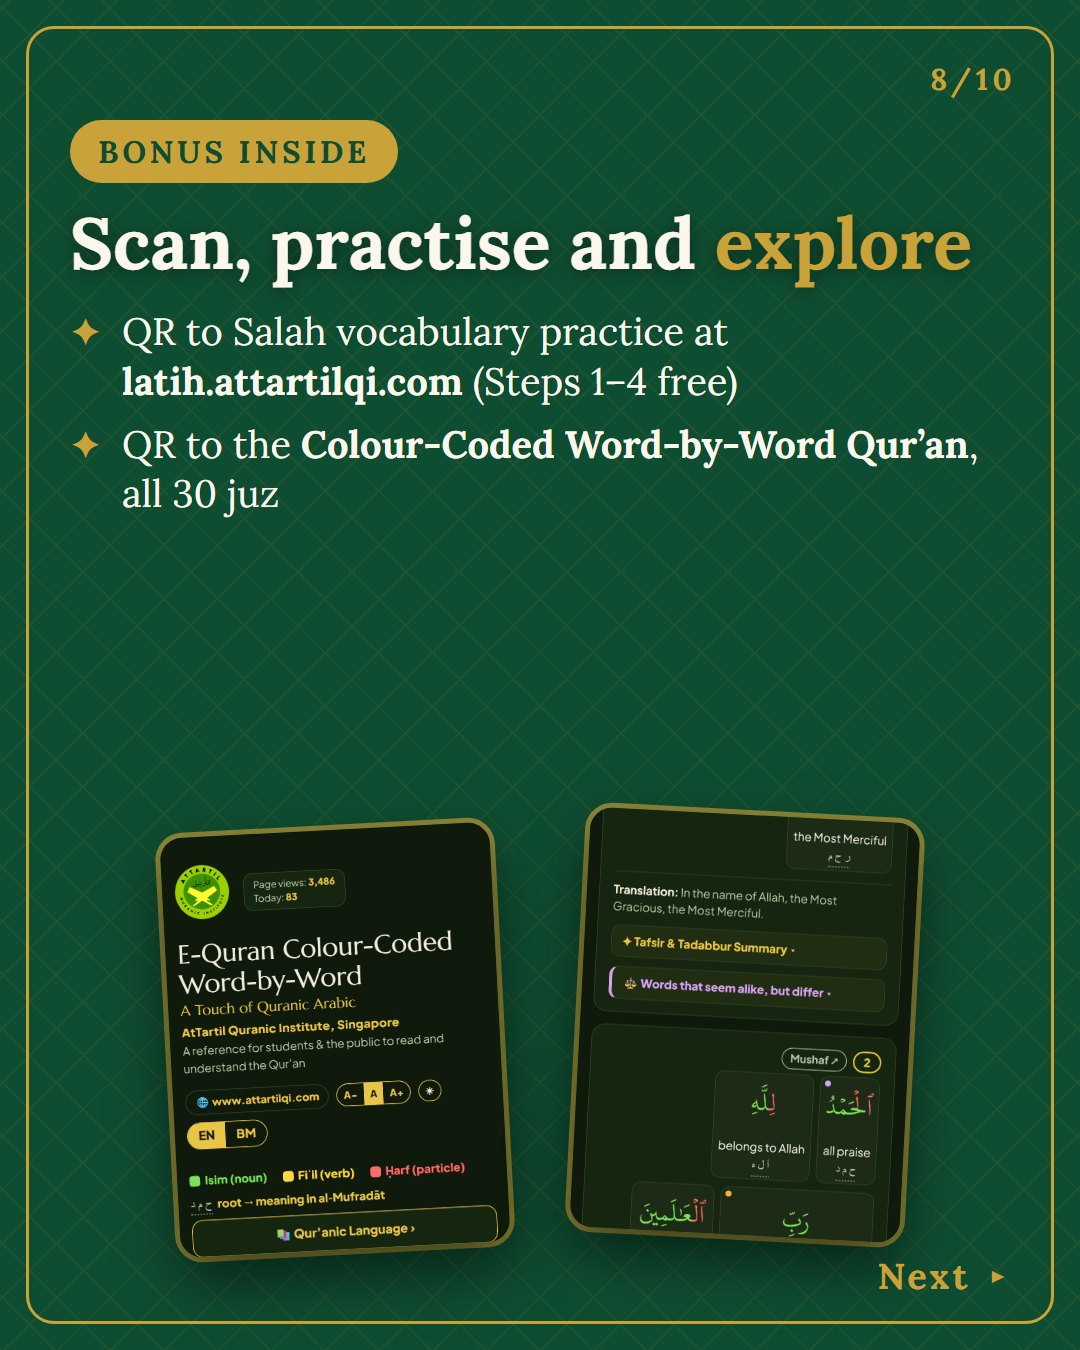
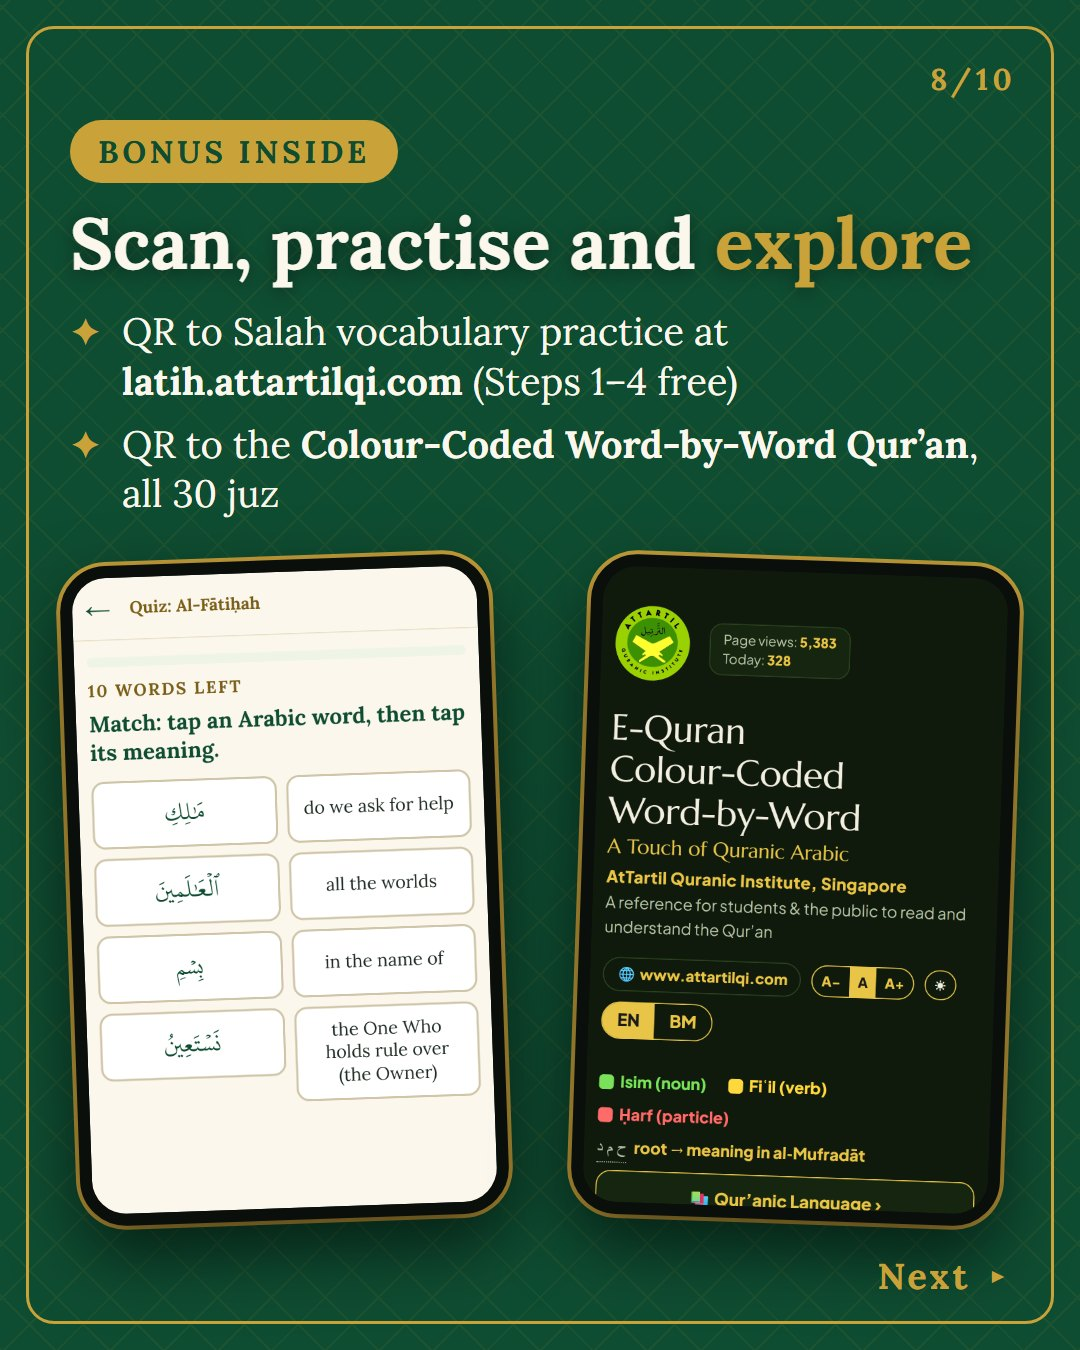
EN slide 8: full-frame phones with real quiz question and Quran main page

diff --git a/en.html b/en.html
@@ -63,7 +63,7 @@ h1 span{display:block;font-size:.55em;font-style:italic;font-weight:400;color:va
       <figure class="slide"><img src="s-en/05.jpg" alt="A companion for Allah's guests: Hajj and Umrah" loading="lazy"></figure>
       <figure class="slide"><img src="s-en/06.jpg" alt="Teach your children Who we speak to in Salah" loading="lazy"></figure>
       <figure class="slide"><img src="s-en/07.jpg" alt="Nearly 300 clickable references to Quran.com and al-Maktabah al-Shamela" loading="lazy"></figure>
-      <figure class="slide"><img src="s-en/08.jpg" alt="Bonus: Salah vocabulary practice and Colour-Coded Word-by-Word Qur'an" loading="lazy"></figure>
+      <figure class="slide"><img src="s-en/08.jpg" alt="Bonus: a real Salah vocabulary quiz and the Colour-Coded Word-by-Word Qur’an main page" loading="lazy"></figure>
       <figure class="slide"><img src="s-en/09.jpg" alt="About the author, Zulkiflee Bachik" loading="lazy"></figure>
       <figure class="slide"><img src="s-en/10.jpg" alt="Ramadan price SGD 17 with code RAMADAN17; scan to buy" loading="lazy"></figure>
   </div>
